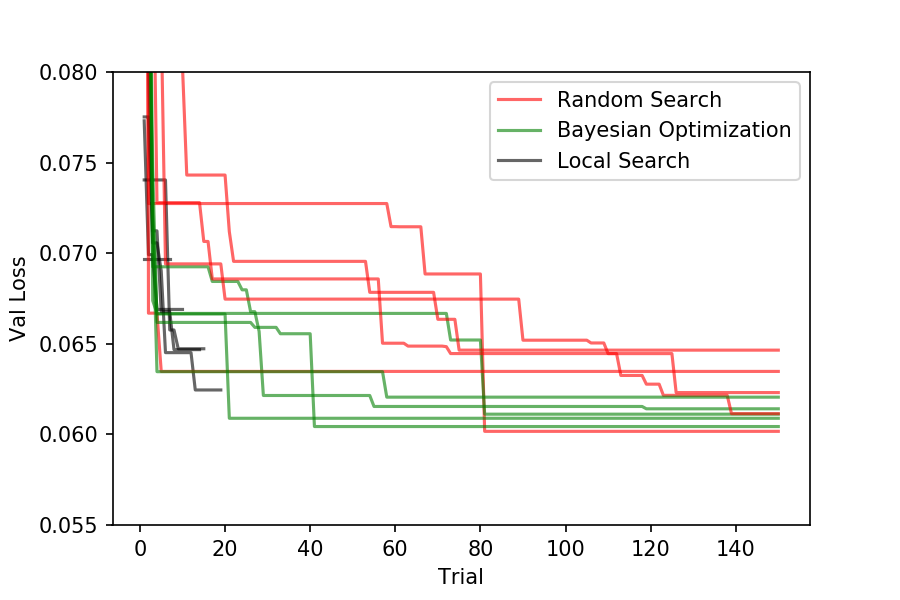
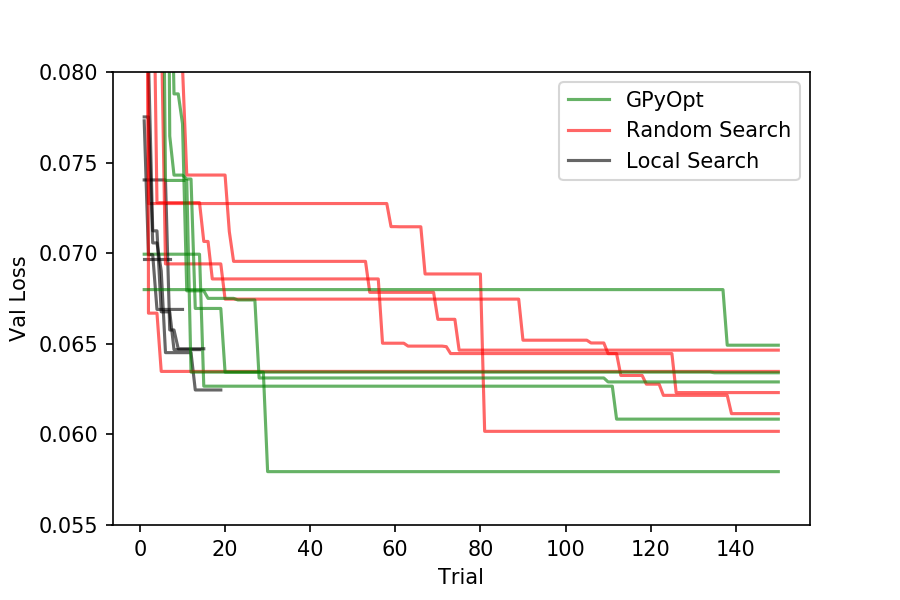
algorithms docs updated with gpyopt

Changed region(s): [[0.1556, 0.12, 0.8711, 0.81], [0.5289, 0.12, 0.8711, 0.3], [0.4978, 0.54, 0.5289, 0.57]]

diff --git a/docs/algorithms/algorithms.rst b/docs/algorithms/algorithms.rst
@@ -34,20 +34,15 @@ algorithm. This is followed by a short comparison benchmark and the algorithms t
 Comparison on MNIST MLP
 ~~~~~~~~~~~~~~~~~~~~~~~
 
-The two figures below show five runs of Random Search against the same number of
-Bayesian Optimization, and Local Search runs. The first figure shows the trial
-index against the best validation loss achieved so far. The second figure shows
-the mean across the five runs as a solid line and the minimum and maximum as
-the shaded areas. Note that the Local Search finishes when no perturbation
-yields an improvement which can be after a varying number of trials. It is
-therefore not included in the mean figure.
-
-.. figure:: individual-loss.png
-   :alt: Individual Losses.
+The figure below shows the mean, minimum, and maximum across five runs of Random Search against the same number of
+GPyOpt Bayesian optimization, and Local Search runs. For the Local Search the
+individual trials are shown since each run finished after a different number of
+trials.
 
 .. figure:: mean-loss.png
    :alt: Individual Losses.
 
+The currently available algorithms in Sherpa are listed below:
 
 Grid Search
 ~~~~~~~~~~~
